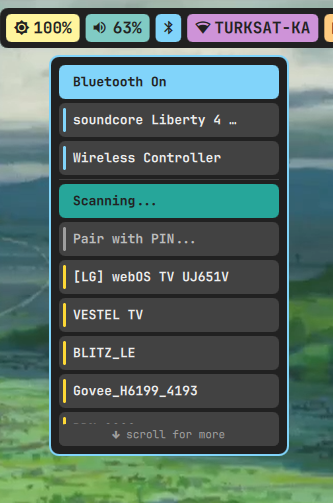
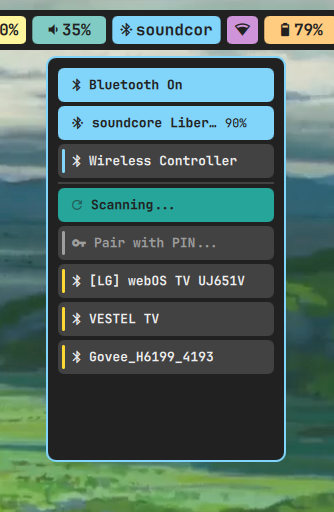
update the readme and the assets

diff --git a/README.md b/README.md
@@ -4,27 +4,19 @@
 
 *a rice that feels like /home <3*
 
-![Arch Linux](https://img.shields.io/badge/Arch_Linux-1793D1?style=for-the-badge&logo=arch-linux&logoColor=white)
-![MangoWM](https://img.shields.io/badge/MangoWM-212121?style=for-the-badge&logoColor=white)
-![Quickshell](https://img.shields.io/badge/Quickshell-80CBC4?style=for-the-badge&logoColor=black)
-
 </div>
 
 ---
 
-![desktop preview](assets/desktop.png)
+![banner](assets/banner.png?v=2)
 
 ---
 
-## 🌱 about
-
-Meloworld is my personal Arch Linux desktop. built around MangoWM and Quickshell. the wallpapers are ghibli landscapes and the whole thing is meant to feel warm, colorful, and alive.
-
-every popup, widget, and notification is part of the same visual system. same row height, same font, same spacing throughout. things slide in, things slide out.
+![desktop preview](assets/desktop.png?v=2)
 
 ---
 
-## 🍃 the setup
+meloworld is my personal arch linux desktop built around mangowm and quickshell. ghibli wallpapers, warm colors, everything animated. every popup, widget, and notification is part of the same visual system. same row height, same font, same spacing throughout.
 
 | | |
 |---|---|
@@ -35,87 +27,119 @@ every popup, widget, and notification is part of the same visual system. same ro
 | **terminal** | [Ghostty](https://ghostty.org/) |
 | **shell** | zsh |
 | **editor** | [Zed](https://zed.dev/) |
-| **font** | [JetBrainsMono Nerd Font](https://www.nerdfonts.com/)|
+| **font** | [JetBrainsMono Nerd Font](https://www.nerdfonts.com/) |
 
 ---
 
-## 🌸 the bar
+## 🌸 features
 
-workspace pills that slide in when you open something and slide out when you close it. scroll the mouse wheel to switch workspaces.
+<details>
+<summary>🪟 bar & workspaces</summary>
+<br>
 
----
+workspace pills slide in when you open something and slide out when you close it. scroll the mouse wheel to switch workspaces. all status pills on the right open their respective popups.
 
-## ☀ the dashboard
+</details>
 
-![dashboard](assets/dashboard.png)
+<details>
+<summary>☀ dashboard</summary>
+<br>
 
-a left panel with quick toggles and notification history. the greetings change dynamically based on the time.
+![dashboard](assets/dashboard.png?v=2)
 
----
+a left panel with quick toggles, system stats, and notification history. greetings change dynamically based on the time of day.
 
-## 🪴 the popups
+</details>
 
-all animated — slide down from the top when they open, slide back up when they close. all share the same design language so they feel like they belong together.
+<details>
+<summary>🪴 popups</summary>
+<br>
 
-### 🎼 media player
+all animated — slide down from the top when they open, slide back up when they close. all share the same design language.
 
-![media player](assets/media.png)
+**🎼 media player**
 
-a simple media player. supports shuffle and repeat on supported apps. uses the material expressive 3 progress bar. 
+![media player](assets/media.png?v=2)
 
-### 🔊 audio
-
-![audio popup](assets/audio.png)
-
-device selection for output and input. volume and mic sliders side by side. click the icon to mute. everything dims when muted. if you only have one audio device, the selector hides itself.
-
-### 🦷 bluetooth
-
-![bluetooth popup](assets/bluetooth.png)
-
-paired devices, scan button, and a filtered scan list that hides raw MAC addresses so you're not staring at noise. the list caps at five entries and scrolls. tells you when there's more above or below.
-
-### 🛜 wifi
-
-![wifi popup](assets/wifi.png)
-
-previously connected networks, autoscan, password enter field. similar to bluetooth the list caps and scrolls.
-
-### ⚡ power profile
-
-![power popup](assets/power.png)
-
-it uses power-profiles-daemon. the border changes color with whatever's active.
+supports shuffle and repeat on supported apps. uses the material expressive 3 progress bar. switches between players with chevron arrows.
 
 ---
 
-## 🌻 notifications
+**🔊 audio**
 
-![notifications](assets/notifications.png)
+![audio popup](assets/audio.png?v=2)
 
-slide in from the right. each app gets its own accent color, derived from the app name — so the same app always gets the same color. critical notifications go red regardless. there's a small timer ring that drains as the notification ages. hover to pause. click to dismiss.
-
----
-
-## 🔑 SDDM
-
-![sddm theme](assets/sddm.png)
-
-i also created a sddm theme based on the same aesthetic. so it smoothly gets to desktop
+device selection for output and input. volume and mic sliders side by side. click the icon to mute — everything dims when muted. single-device setups hide the selector automatically.
 
 ---
 
-## 🧑🏼💻 zed
+**🦷 bluetooth**
 
-![zed theme](assets/zed.png)
+![bluetooth popup](assets/bluetooth.png?v=2)
 
-the zed theme is based on the same color palette. there is both blurred and non-blurred variants in the theme. i prefer the blur variant.
+paired devices, scan button, filtered scan list that hides raw MAC addresses. list caps at five entries and scrolls — tells you when there's more above or below.
+
+---
+
+**🛜 wifi**
+
+![wifi popup](assets/wifi.png?v=2)
+
+previously connected networks, autoscan, password entry. same scrolling behavior as bluetooth.
+
+---
+
+**⚡ power profile**
+
+![power popup](assets/power.png?v=2)
+
+uses power-profiles-daemon. the border changes color with whatever profile is active.
+
+</details>
+
+<details>
+<summary>🌻 notifications</summary>
+<br>
+
+![notifications](assets/notifications.png?v=2)
+
+slide in from the right. each app gets its own accent color derived from the app name — same app always gets the same color. critical notifications go red regardless. a small timer ring drains as the notification ages. hover to pause. click to dismiss.
+
+</details>
+
+<details>
+<summary>🔑 sddm & lockscreen</summary>
+<br>
+
+![sddm theme](assets/sddm.png?v=2)
+
+a custom sddm theme built on the same aesthetic so the login screen feels like part of the desktop rather than something bolted on.
+
+</details>
+
+<details>
+<summary>🧑🏼💻 zed theme</summary>
+<br>
+
+![zed theme](assets/zed.png?v=2)
+
+matches the same color palette. blurred and non-blurred variants included.
+
+</details>
+
+<details>
+<summary>🌙 idle screen</summary>
+<br>
+
+a sleeping cat appears after a few minutes of inactivity. dims the screen, breathing animation, animated z's. any input dismisses it with a fade.
+
+</details>
 
 ---
 
 ## 🍁 install
 
-# Automatic Install for Arch Linux
+**automatic (arch linux)**
 
 ```bash
 git clone https://github.com/melatonia/meloworld-dotfiles
@@ -124,7 +148,10 @@ chmod +x install.sh
 ./install.sh
 ```
 
-# Manual Install
+<details>
+<summary>manual install</summary>
+<br>
+
 ```bash
 git clone https://github.com/melatonia/meloworld-dotfiles
 cd meloworld-dotfiles
@@ -139,18 +166,22 @@ cp -r .zshrc ~/.zshrc
 sudo cp -r meloworld-sddm /usr/share/sddm/themes/
 ```
 
-then add these lines to `/etc/sddm.conf.d/theme.conf` for sddm theme
+add to `/etc/sddm.conf.d/theme.conf`:
 ```
 [Theme]
 Current=meloworld-sddm
 ```
 
-you can use this code to remove window buttons from apps.
+remove window buttons from gtk apps:
 ```bash
 gsettings set org.gnome.desktop.wm.preferences button-layout ":"
 ```
 
-### dependencies
+</details>
+
+<details>
+<summary>dependencies</summary>
+<br>
 
 ```bash
 paru -S mangowm quickshell pipewire pipewire-pulse wireplumber bluez bluez-utils brightnessctl ghostty power-profiles-daemon polkit-gnome ttf-jetbrains-mono-nerd rofi rofimoji grim slurp awww bibata-cursor-theme-bin papirus-icon-theme zed zsh zsh-autosuggestions zsh-syntax-highlighting adw-gtk-theme xdg-desktop-portal-wlr hypridle playerctl
@@ -158,42 +189,21 @@ paru -S mangowm quickshell pipewire pipewire-pulse wireplumber bluez bluez-utils
 sudo systemctl enable --now bluetooth power-profiles-daemon
 ```
 
-> ⚠ use Quickshell **0.2.1 from the extra repo** — not the git version. the API is different and things will break.
+</details>
 
 ---
 
 ## 📦 extras
 
-all the current sound files are created by me using bitwig studio. you can use them however you want but i would appreciate a credit :3
+the sound files (login chime, notification, screenshot, usb connect/remove) were made by me in bitwig studio. use them freely, a credit would be appreciated :3
 
-i'm currently using zen browser with [transparent zen extension](https://sameerasw.com/zen) and `#212121CC` background. but if you want to use firefox i recommend using the [Firefox Gnome Theme](https://github.com/rafaelmardojai/firefox-gnome-theme)
-
----
-
-## ✅ to-do list
-
-- [x] consistent design system and color palette
-- [x] fixing the widget overlap
-- [x] removing the hardcoded values 
-- [x] fix: smoother scrolling for sliders 
-- [x] battery saver mode
-- [x] fix: adding right click context menu to the tray
-- [x] feature: not sure but a simple date widget
-- [x] improvement: a more consistent lockscreen theme
-- [x] improvement: a better rofi theme
-- [x] feature: more sounds (currently login chime, notification, screenshot and usb connect-remove sound exists)
-- [x] feature: osd's for brightness and audio 
-- [x] feature: media switch buttons
-- [x] feature: light mode
-- [x] feature: intelligent power saver
-- [x] feature: dock
-
+i use zen browser with the [transparent zen extension](https://sameerasw.com/zen) and `#212121CC` background. for firefox, [Firefox Gnome Theme](https://github.com/rafaelmardojai/firefox-gnome-theme) works well.
 
 ---
 
 ## 🍀 credits
 
-the popup design language — the row style, the accent stripes, the device selectors — was heavily inspired by [crylia-theme](https://github.com/Crylia/crylia-theme) by [Crylia](https://github.com/Crylia). a beautiful AwesomeWM rice that made the whole thing feel possible. everything here is reimplemented from scratch in QML, but the soul came from there.
+the popup design language — row style, accent stripes, device selectors — was heavily inspired by [crylia-theme](https://github.com/Crylia/crylia-theme) by [Crylia](https://github.com/Crylia). a beautiful awesomewm rice that made the whole thing feel possible. everything here is reimplemented from scratch in qml, but the soul came from there.
 
 go leave them a star! ⭐
 
